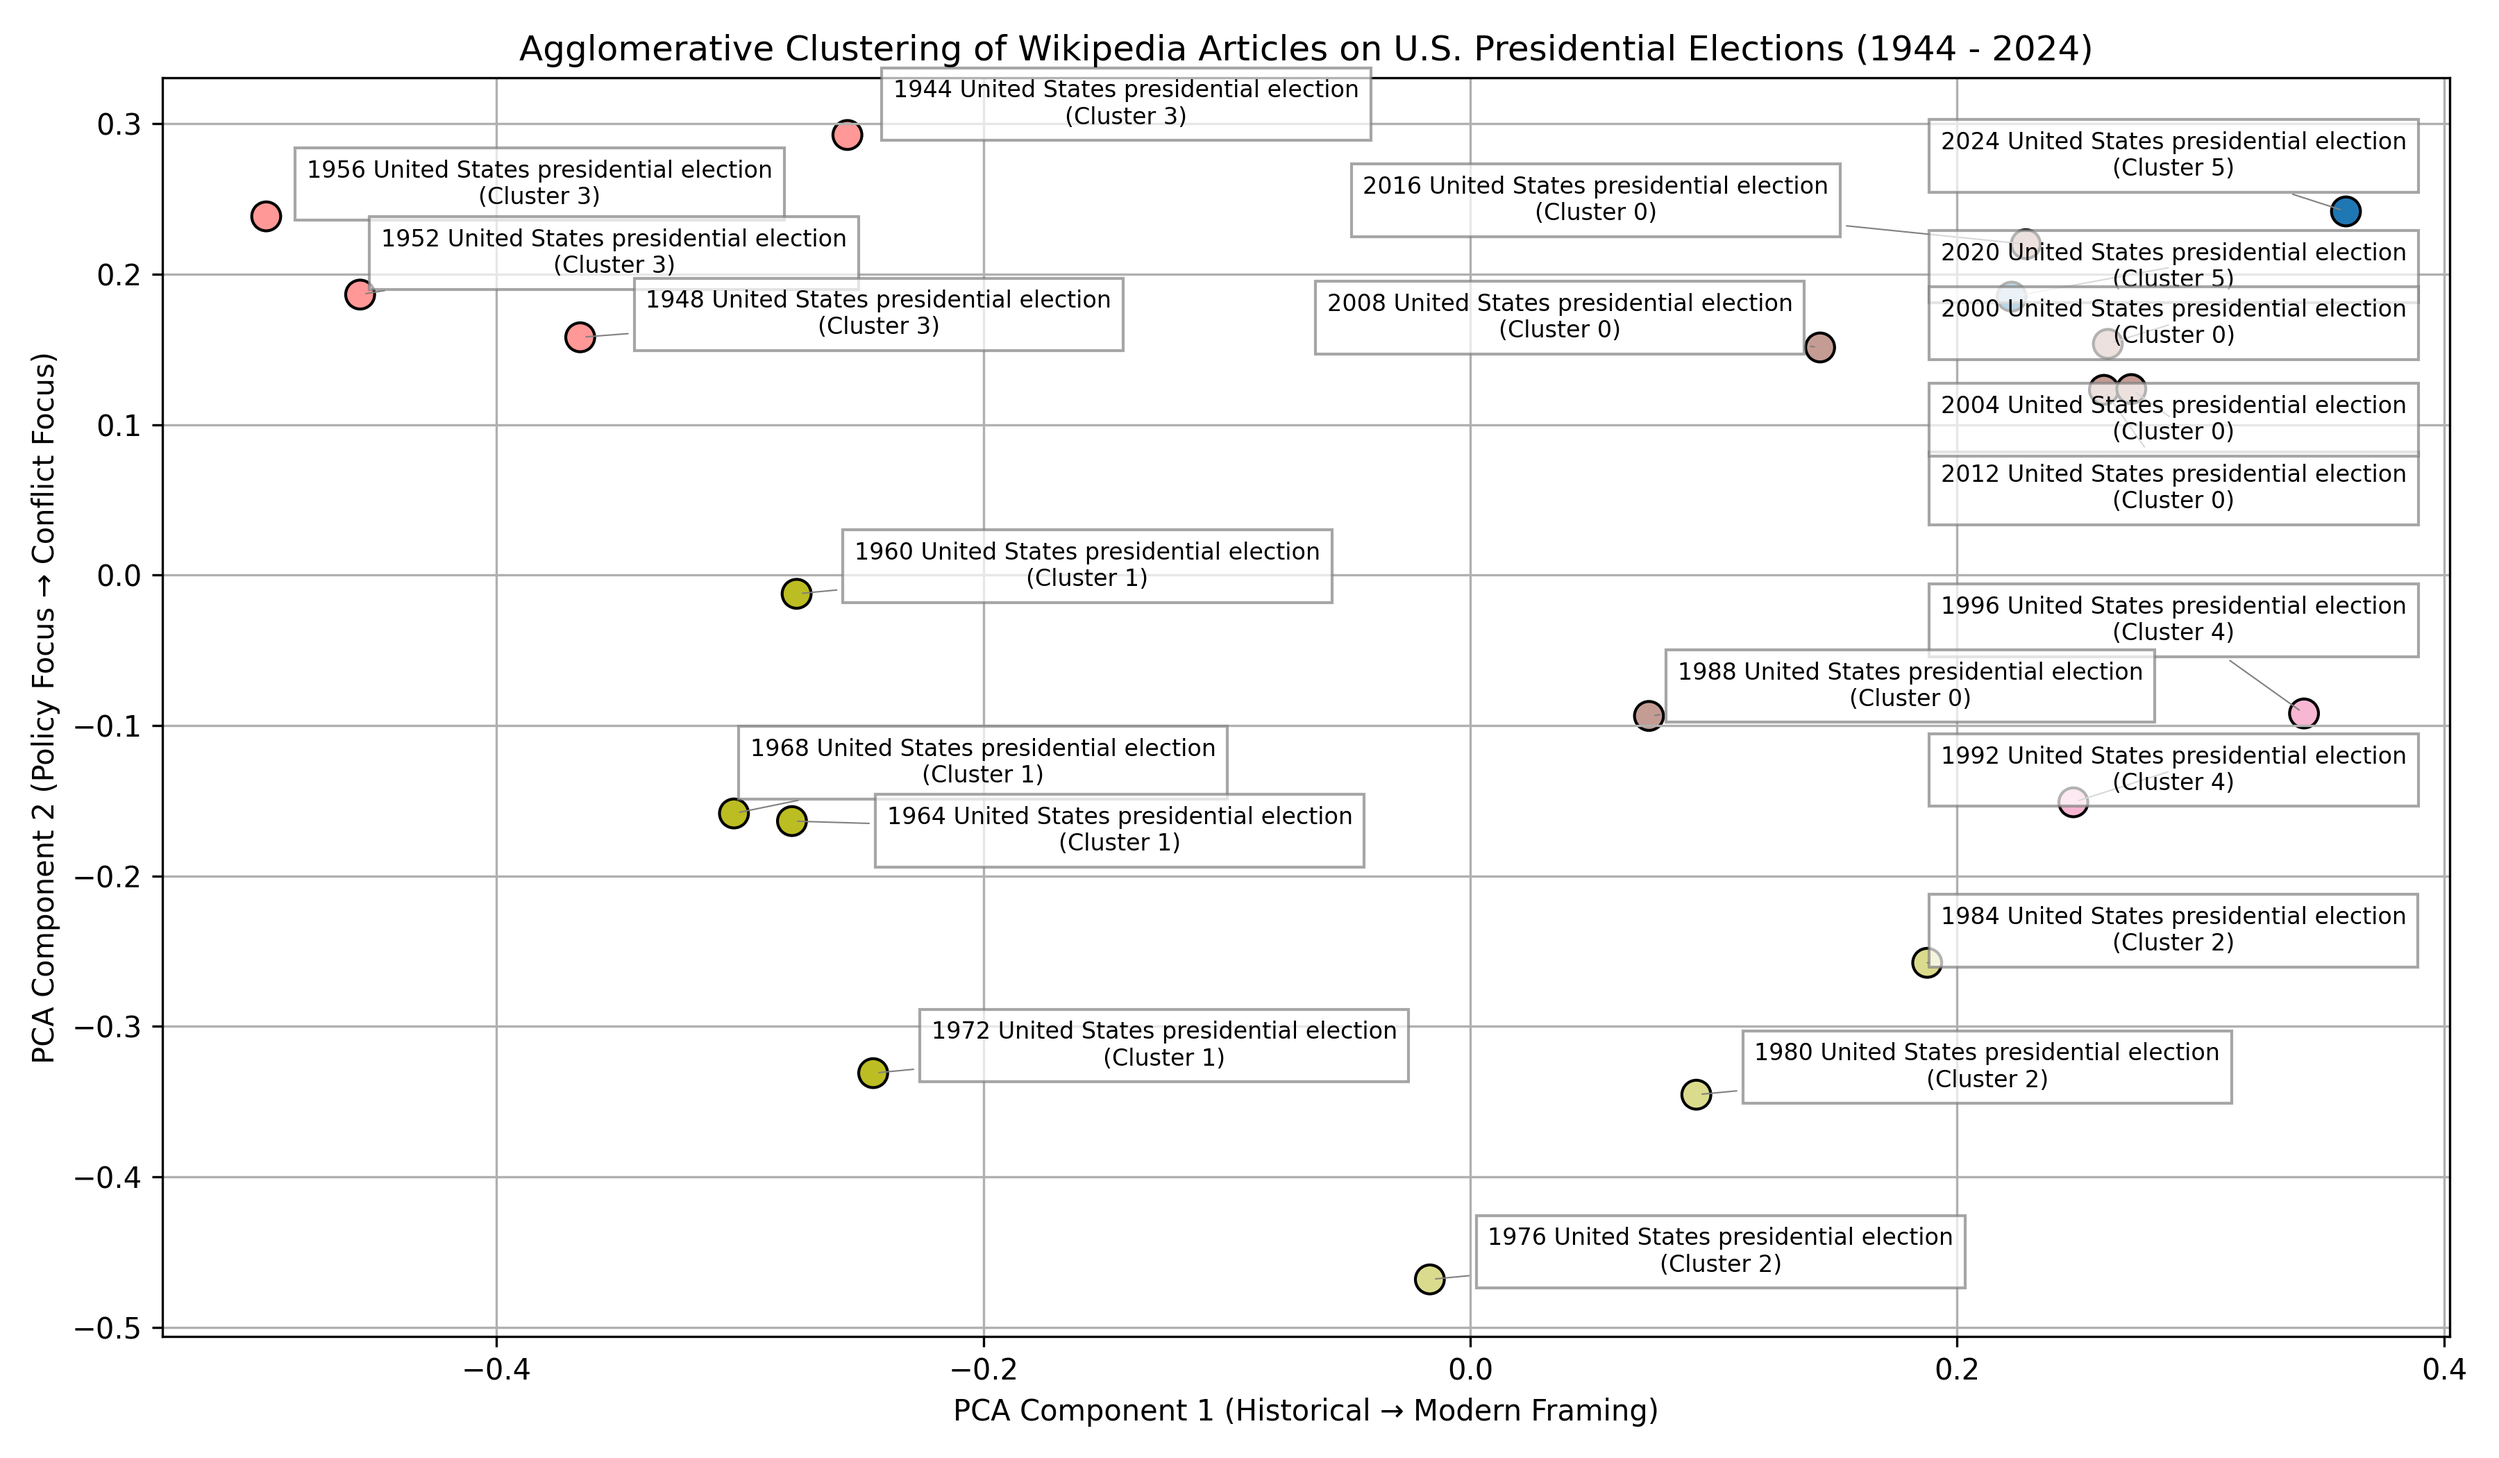
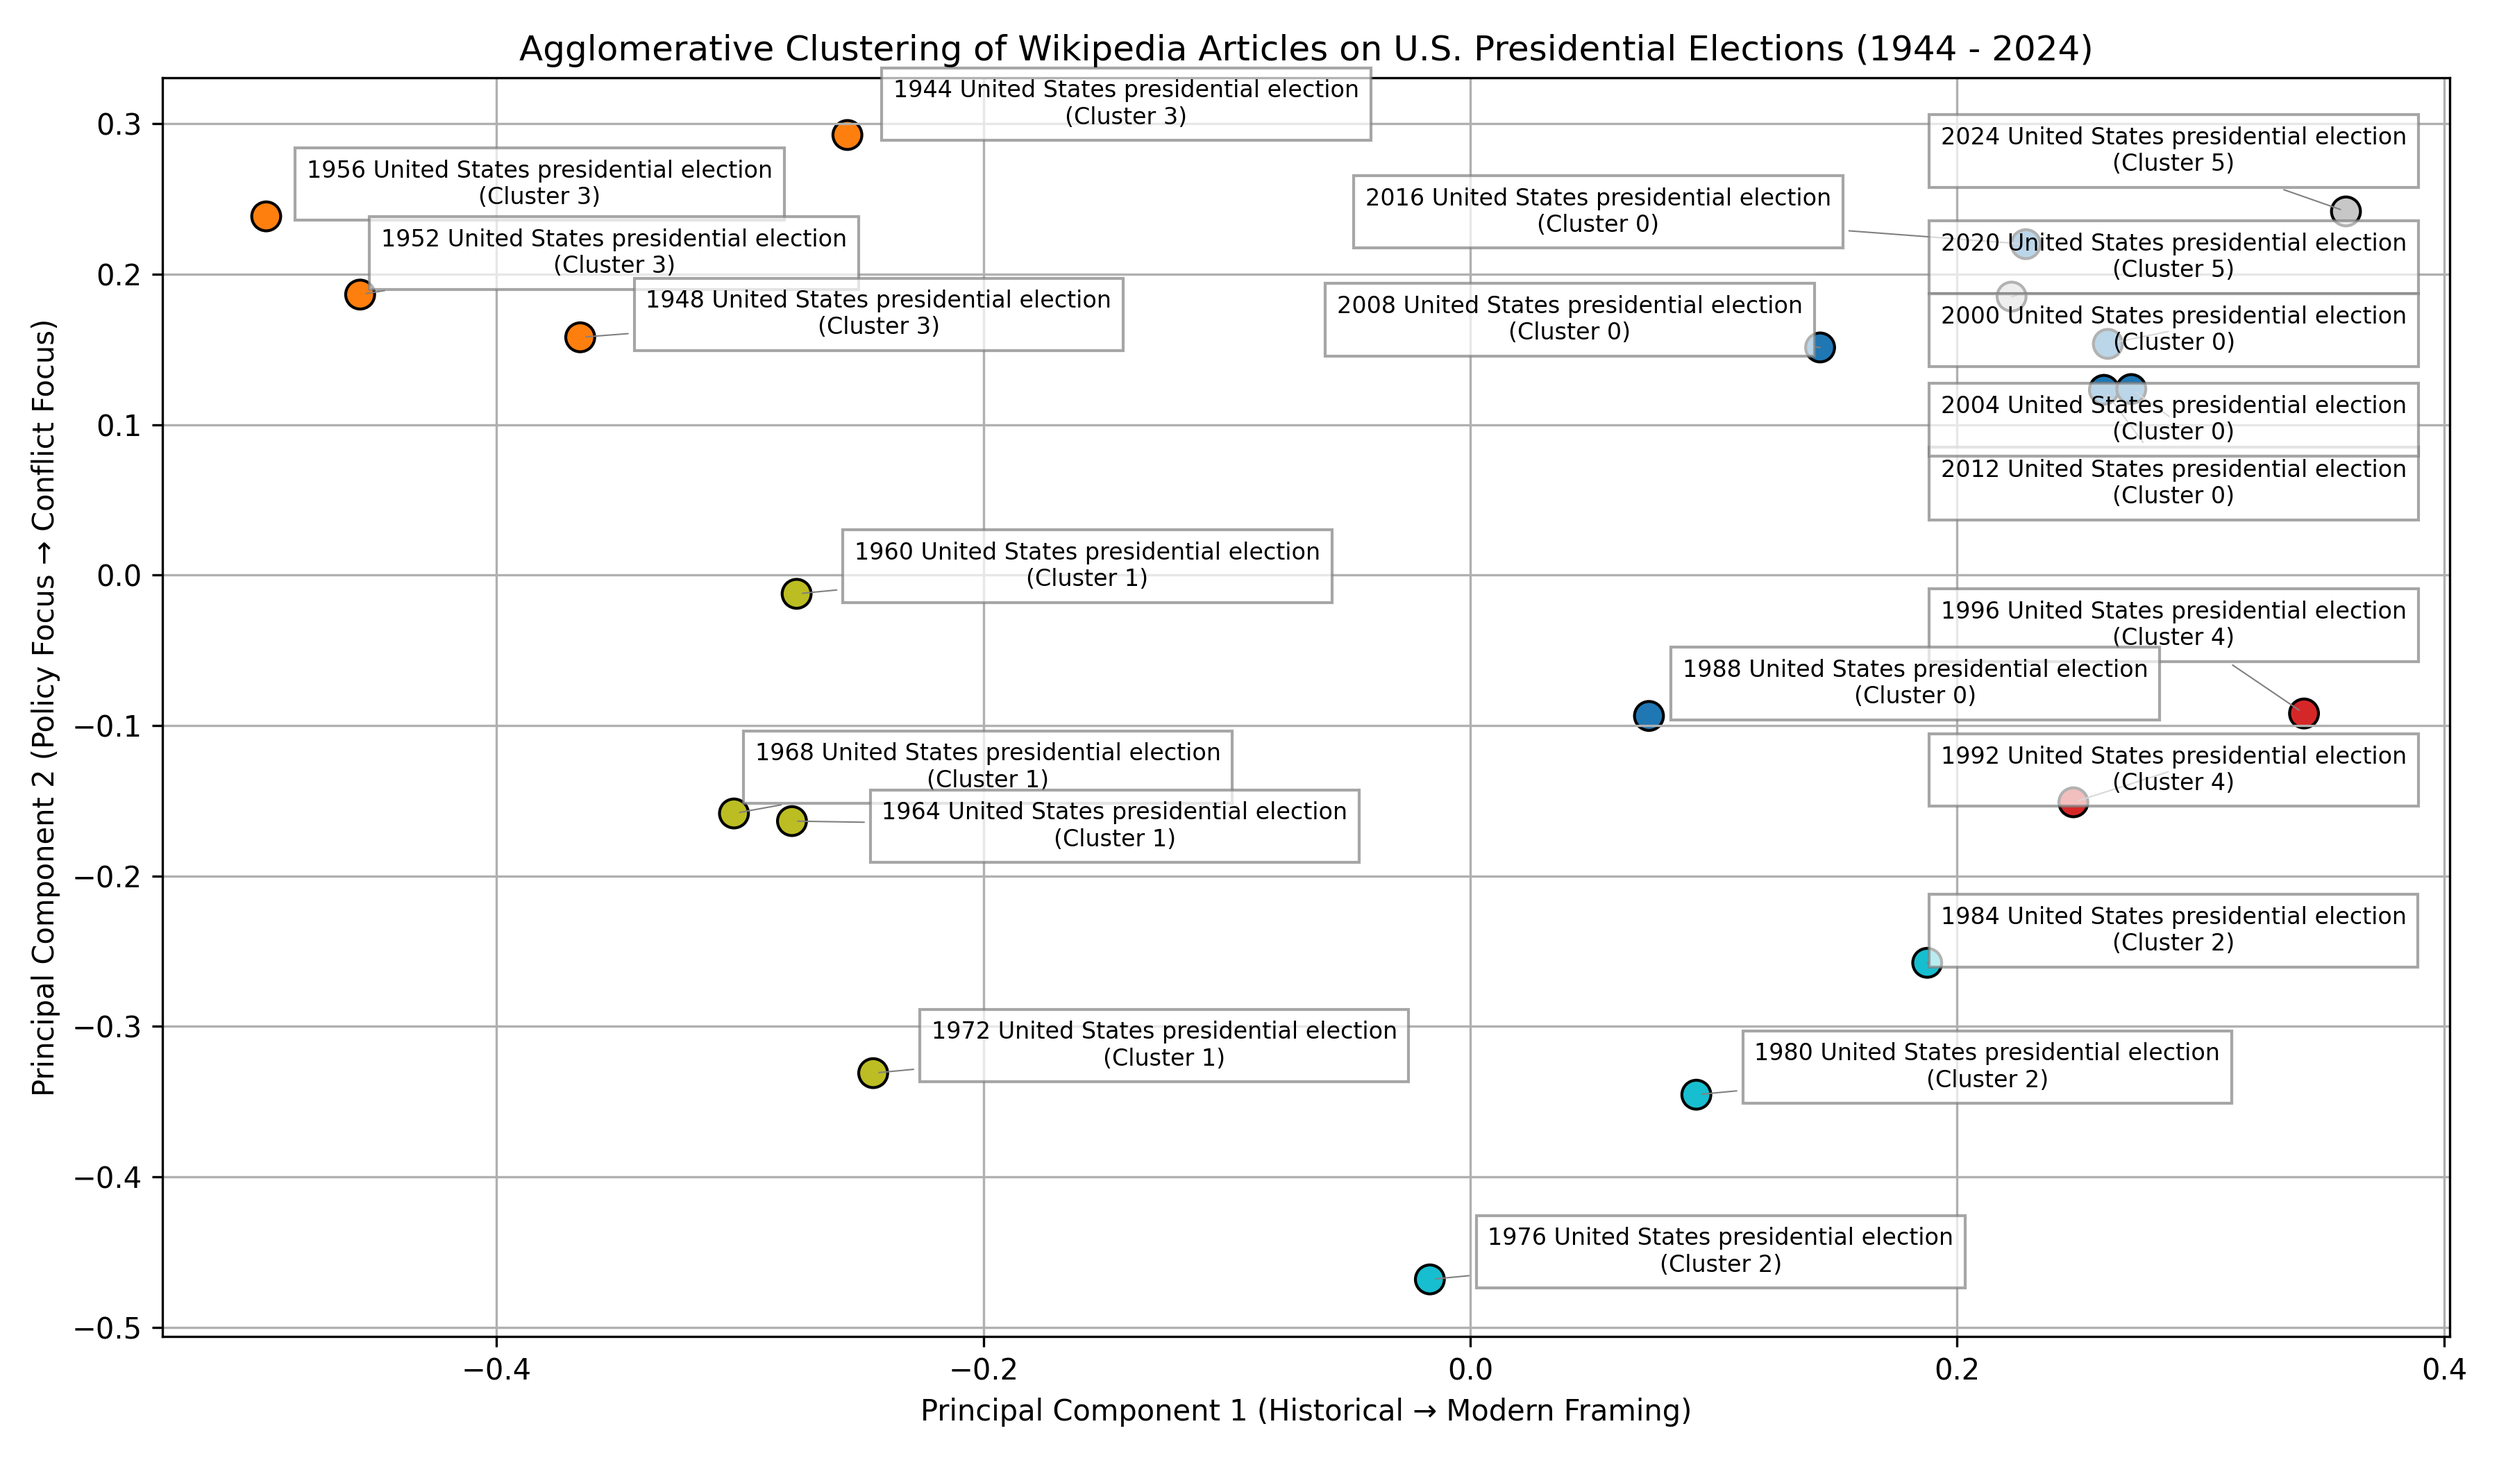
Update plot axis

diff --git a/Module4/cluster_analysis.py b/Module4/cluster_analysis.py
@@ -178,8 +178,8 @@ adjust_text(
 )
 
 plt.title("Agglomerative Clustering of Wikipedia Articles on U.S. Presidential Elections (1944 - 2024)")
-plt.xlabel("PCA Component 1 (Historical → Modern Framing)")
-plt.ylabel("PCA Component 2 (Policy Focus → Conflict Focus)")
+plt.xlabel("Principal Component 1 (Historical → Modern Framing)")
+plt.ylabel("Principal Component 2 (Policy Focus → Conflict Focus)")
 plt.grid(True)
 plt.tight_layout()
 plt.savefig("pres_election_clusters.png", dpi=300)
